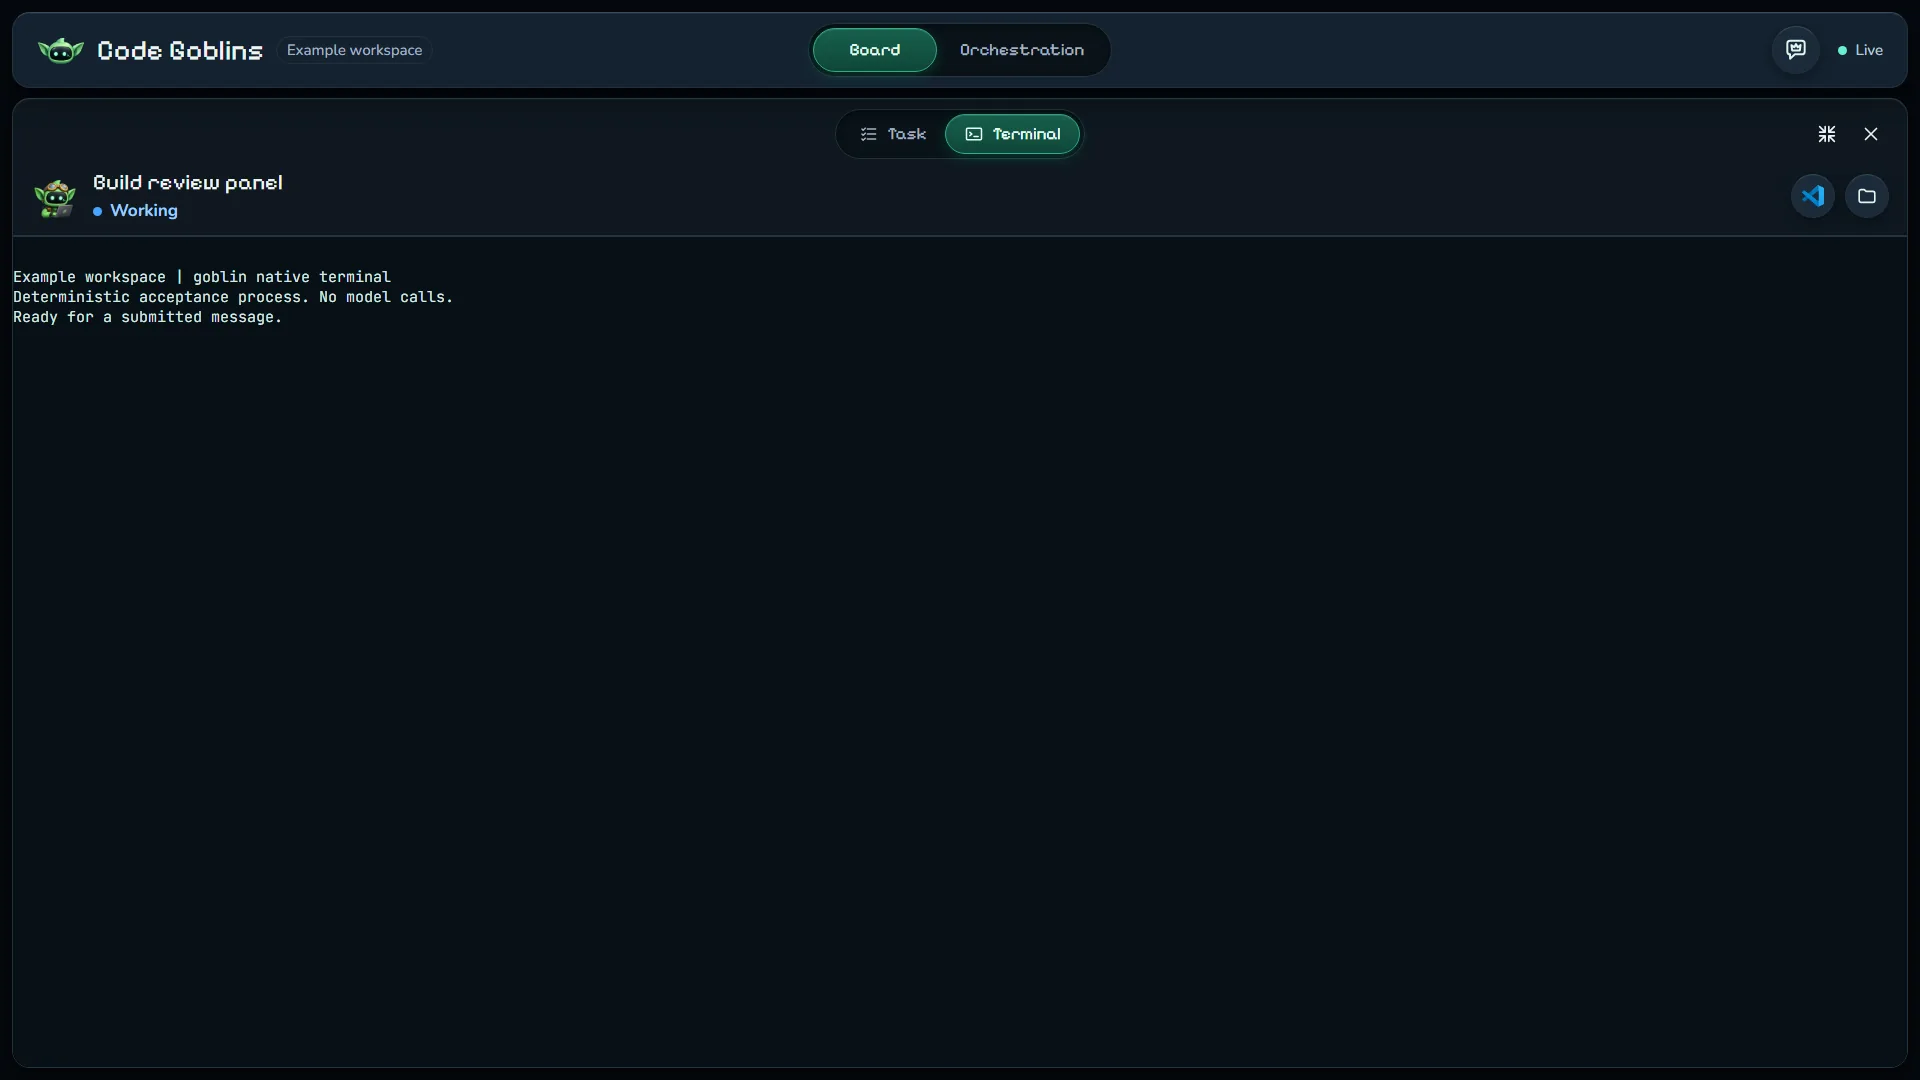
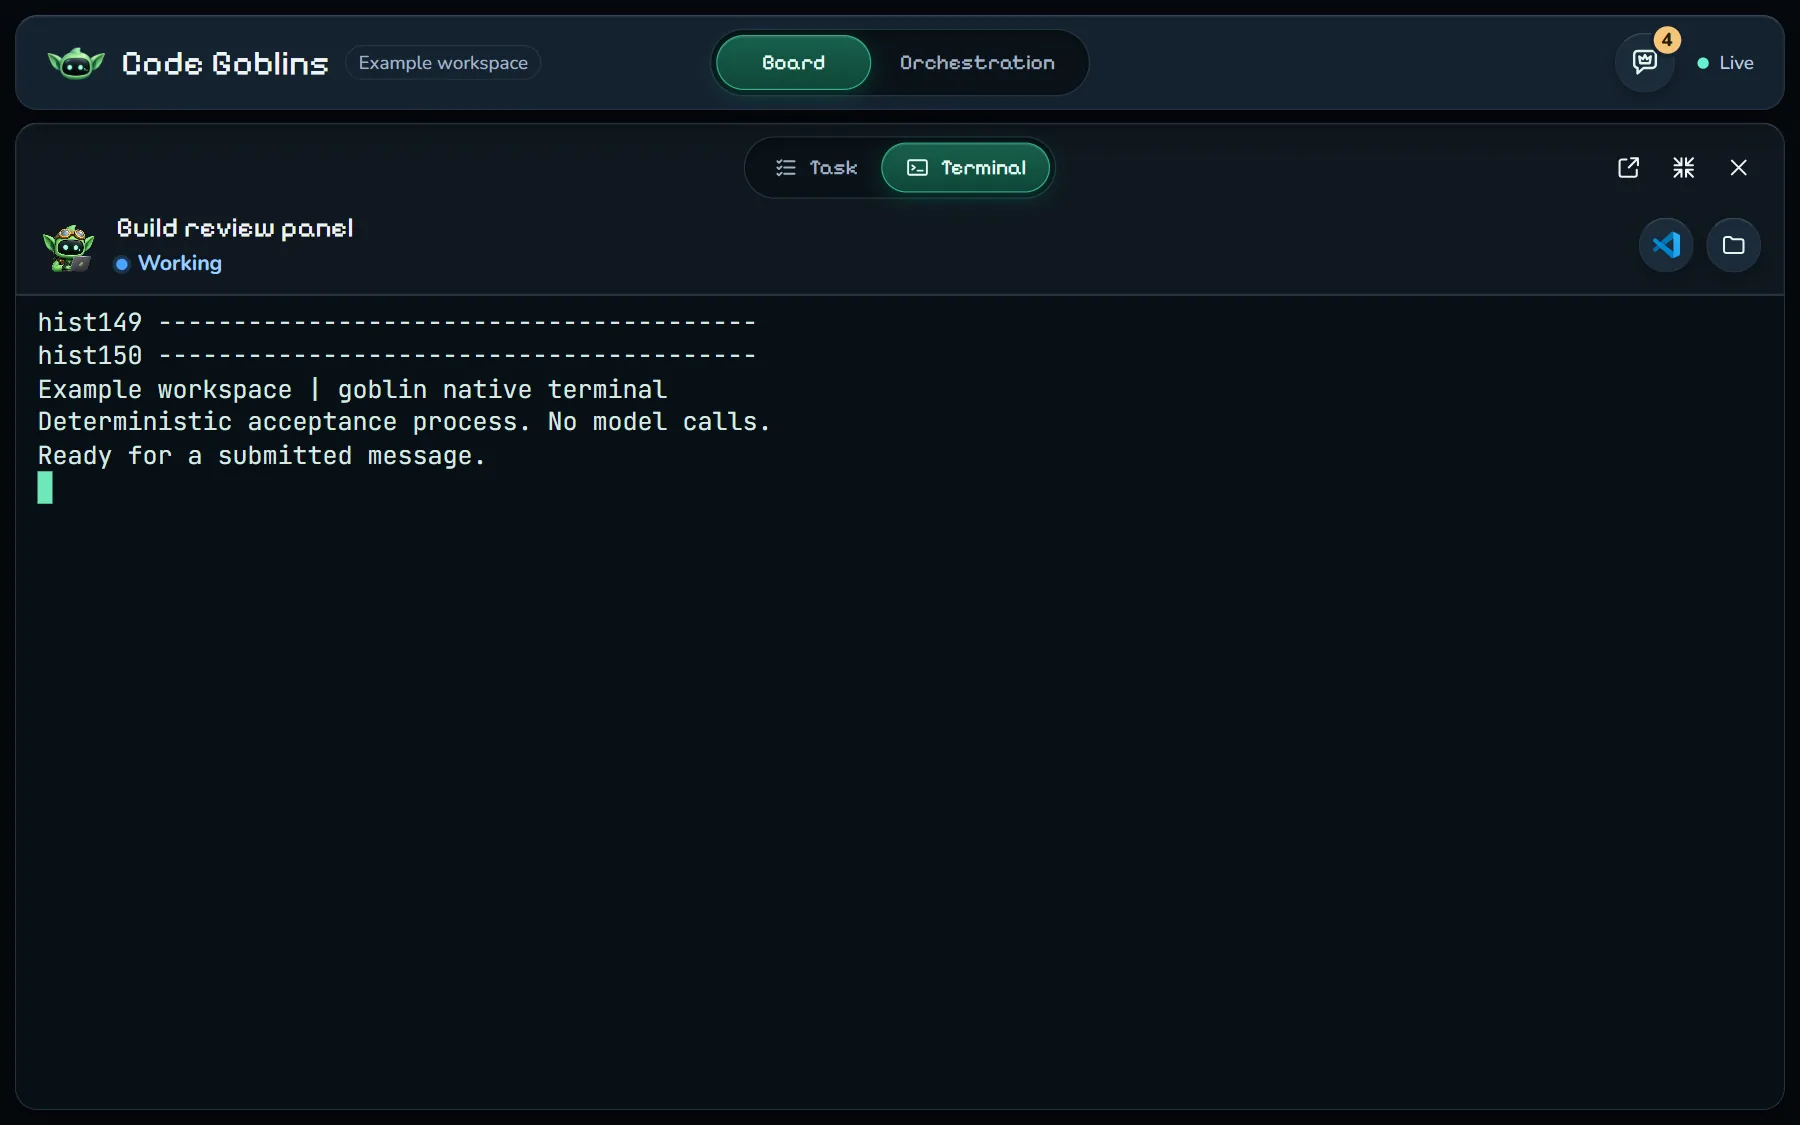
docs(readme): refresh the screenshots for the release
The hero, board, orchestration and terminal captures showed the board
before the CFO bar, the memory meter, numbered queues and the current
panel. Fresh captures come from a staged example workspace outside the
user profile, and alerts, new since the last captures, get an image.

Changed region(s): [[0.0, 0.0, 0.9956, 0.1833], [0.0, 0.1528, 0.4356, 0.4583], [0.9022, 0.1222, 0.9956, 0.2444]]

diff --git a/README.md b/README.md
@@ -14,7 +14,7 @@
 </p>
 
 <p align="center">
-  <img src="docs/images/hero.webp" alt="The Code Goblins board: a queued task and five goblins working, awaiting input or blocked on a question, beside one goblin's diff with a line comment the CFO has accepted" width="900" />
+  <img src="docs/images/hero.webp" alt="The Code Goblins board: the CFO's bar with the question waiting on you, two queued tasks under the memory meter, goblins in progress, and beside them the selected goblin's panel with its status line and the diff of its change" width="900" />
   <br />
   <sub>Screenshots show the example workspace, <code>cfo serve --example</code> on an isolated home, staged with demo goblins.</sub>
 </p>
@@ -171,7 +171,7 @@ When it needs you, it asks on the board: a decision, a page to review, or a comm
 ## Using the board
 
 <p align="center">
-  <img src="docs/images/board-review.webp" alt="Board view: a queued task, four goblins in progress (working or waiting on you) and the selected goblin's panel with its status, workspace, Connectors and Changes" width="900" />
+  <img src="docs/images/board-review.webp" alt="Board view: the CFO pinned above the columns, two numbered queued tasks with the memory meter and Start now, five goblins in progress, and the selected goblin's panel with its status, workspace, Connectors and Changes" width="900" />
 </p>
 
 `cfo serve` runs the native supervisor and serves its board, which is compiled into `cfo.exe`, at `http://127.0.0.1:4310`.
@@ -197,7 +197,7 @@ The header switches between two views, one at a time, each with a contextual pan
 - **Orchestration** is the live family tree: the CFO above its goblins and any child sessions they reported. The panel shows the selected session's real native terminal and starts on the CFO, whose terminal is shown from its host when the CFO runs in a native terminal. Dragging cards, panning, zooming, **Fit** and **Arrange** change only the layout, because parentage comes from native session evidence. A brief pulse along a connector marks a real accepted message.
 
 <p align="center">
-  <img src="docs/images/orchestration.webp" alt="Orchestration view: the CFO above four goblins, with the selected goblin's live native terminal in the right panel" width="900" />
+  <img src="docs/images/orchestration.webp" alt="Orchestration view: the CFO above five goblins in three repositories, with the selected goblin's live native terminal in the right panel" width="900" />
 </p>
 
 Each card shows the task's short title and a muted line with its repo and status; the goblin's own words are in its panel.
@@ -251,7 +251,7 @@ Hold **Ctrl+Shift+Space** to dictate into the terminal that has the keyboard: th
 In both, drag to select and the selection is copied, and **Shift+Escape** moves the keyboard back out.
 
 <p align="center">
-  <img src="docs/images/goblin-panel.webp" alt="A goblin's terminal maximized over the whole window: its Herdr pane fills the panel, scaled to fit, with the input line at the bottom and no scroll bars" width="900" />
+  <img src="docs/images/goblin-panel.webp" alt="A goblin's native terminal maximized over the whole window, edge to edge with no scroll bars, under the Task and Terminal pill with Open in terminal, Restore and Close" width="900" />
 </p>
 
 ### Sending a diff comment to the CFO
@@ -283,6 +283,11 @@ Other items, a plain link included, are answered in writing with **Send answer**
 A document the CFO or a goblin delivers with `cfo deliver` shows its file type, name and size with **Download**, and **Open** when the browser can show it or it has a link; opening or downloading it moves it to History.
 Anything new that needs you or finished shows as an alert at the bottom right: a new question, review item or command, and a goblin that is blocked, failed, or done with its pull request; clicking an alert opens that item, alerts stack and fade after a few seconds, and routine progress never alerts.
 While the board's tab is hidden or its window is behind another, each alert is also a Windows notification once you allow them; the board asks once, with its first alert.
+
+<p align="center">
+  <img src="docs/images/alert.webp" alt="An alert at the bottom right of the board: the goblin fixing the flaky checkout test wants your review, with its request, Look at the checkout race fix before it ships, and a close button" width="420" />
+</p>
+
 New items also stay under the badge, and the browser tab's title counts what is waiting on you.
 A goblin's item closes by itself once nobody waits on it: a wait when the goblin reports again or the CFO answers it, any item but a delivered document when its goblin finishes or is cleaned up, and the CFO can clear a stale one with a reason.
 Several items stack up one card at a time, the CFO's first and then goblins in the In progress order, each goblin's by longest wait, then goblins you have not placed, by longest wait: each card's action row has **Back**, its place such as 2 of 4, and **Next** on the left and its answer on the right, and you can swipe; closing keeps every item for later.
